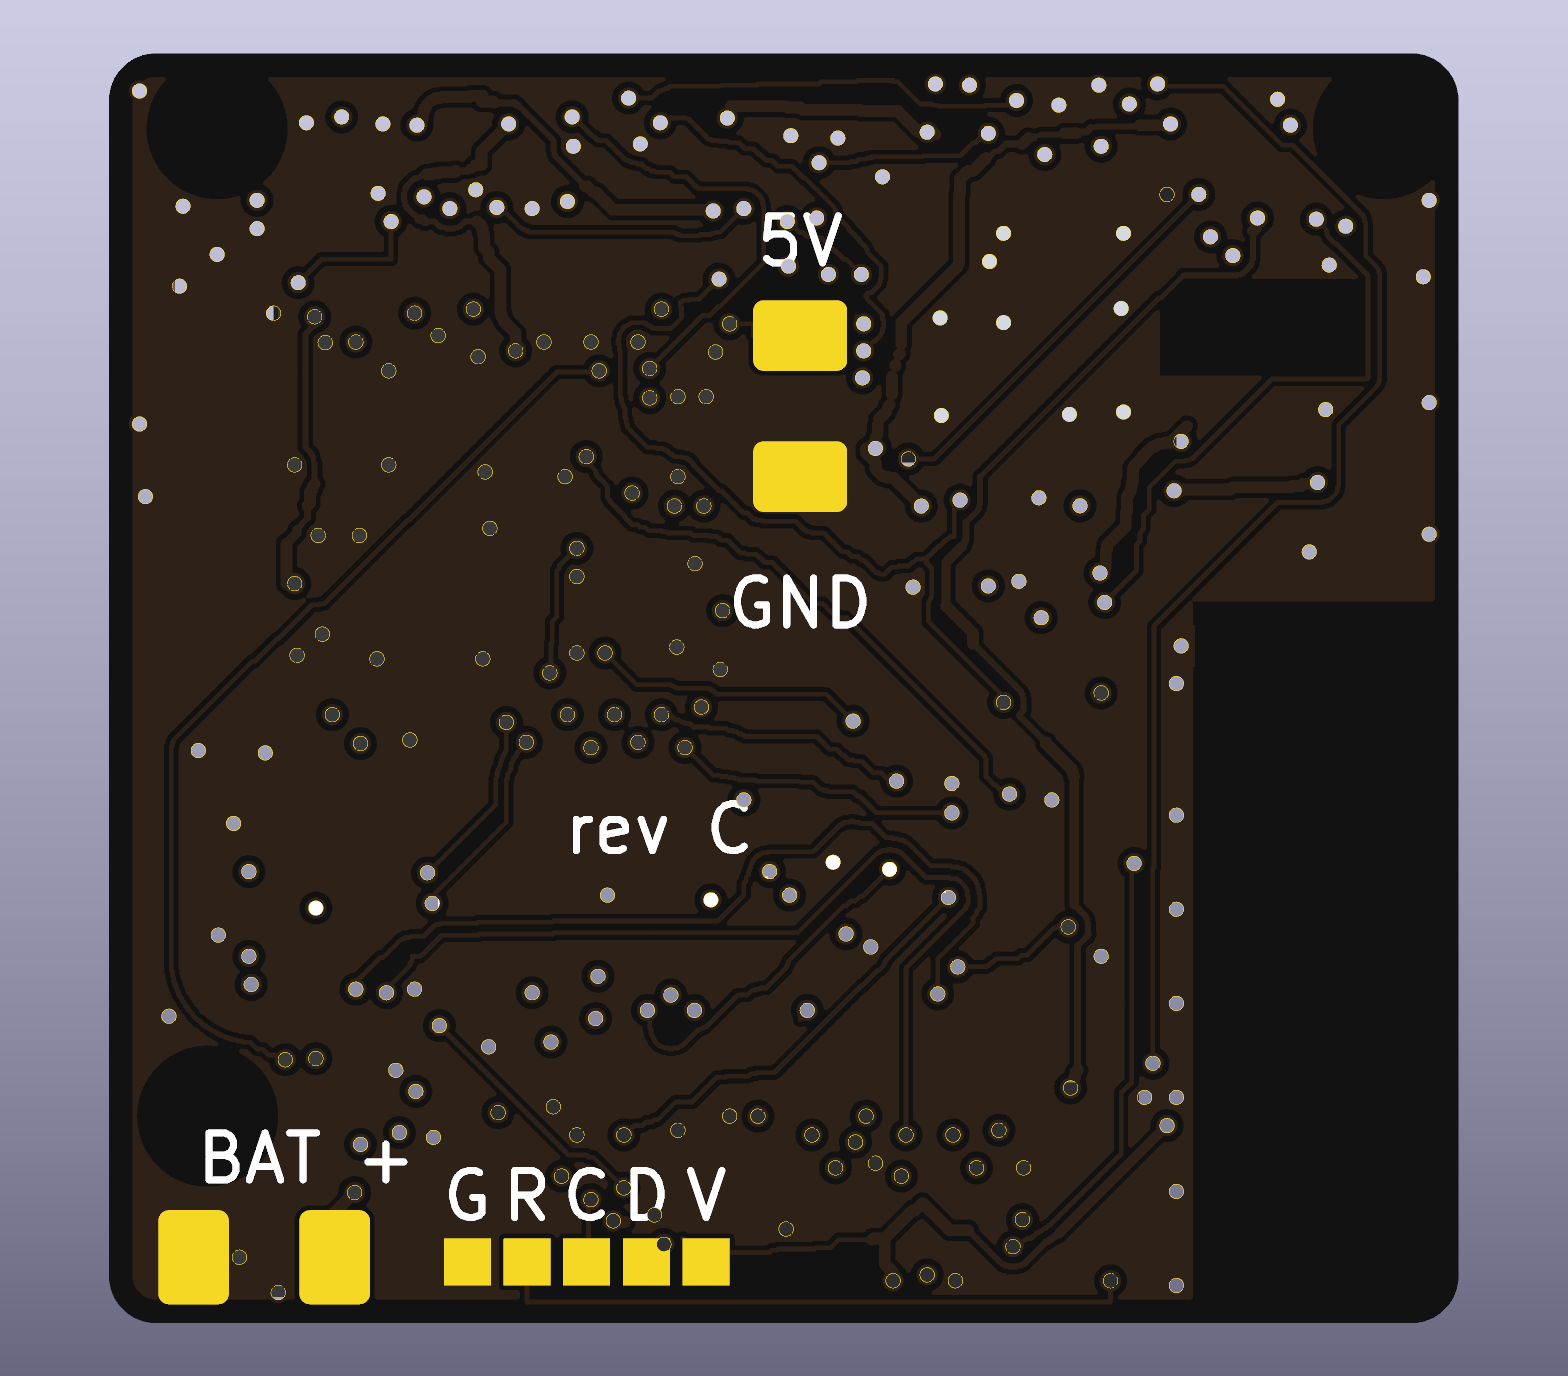
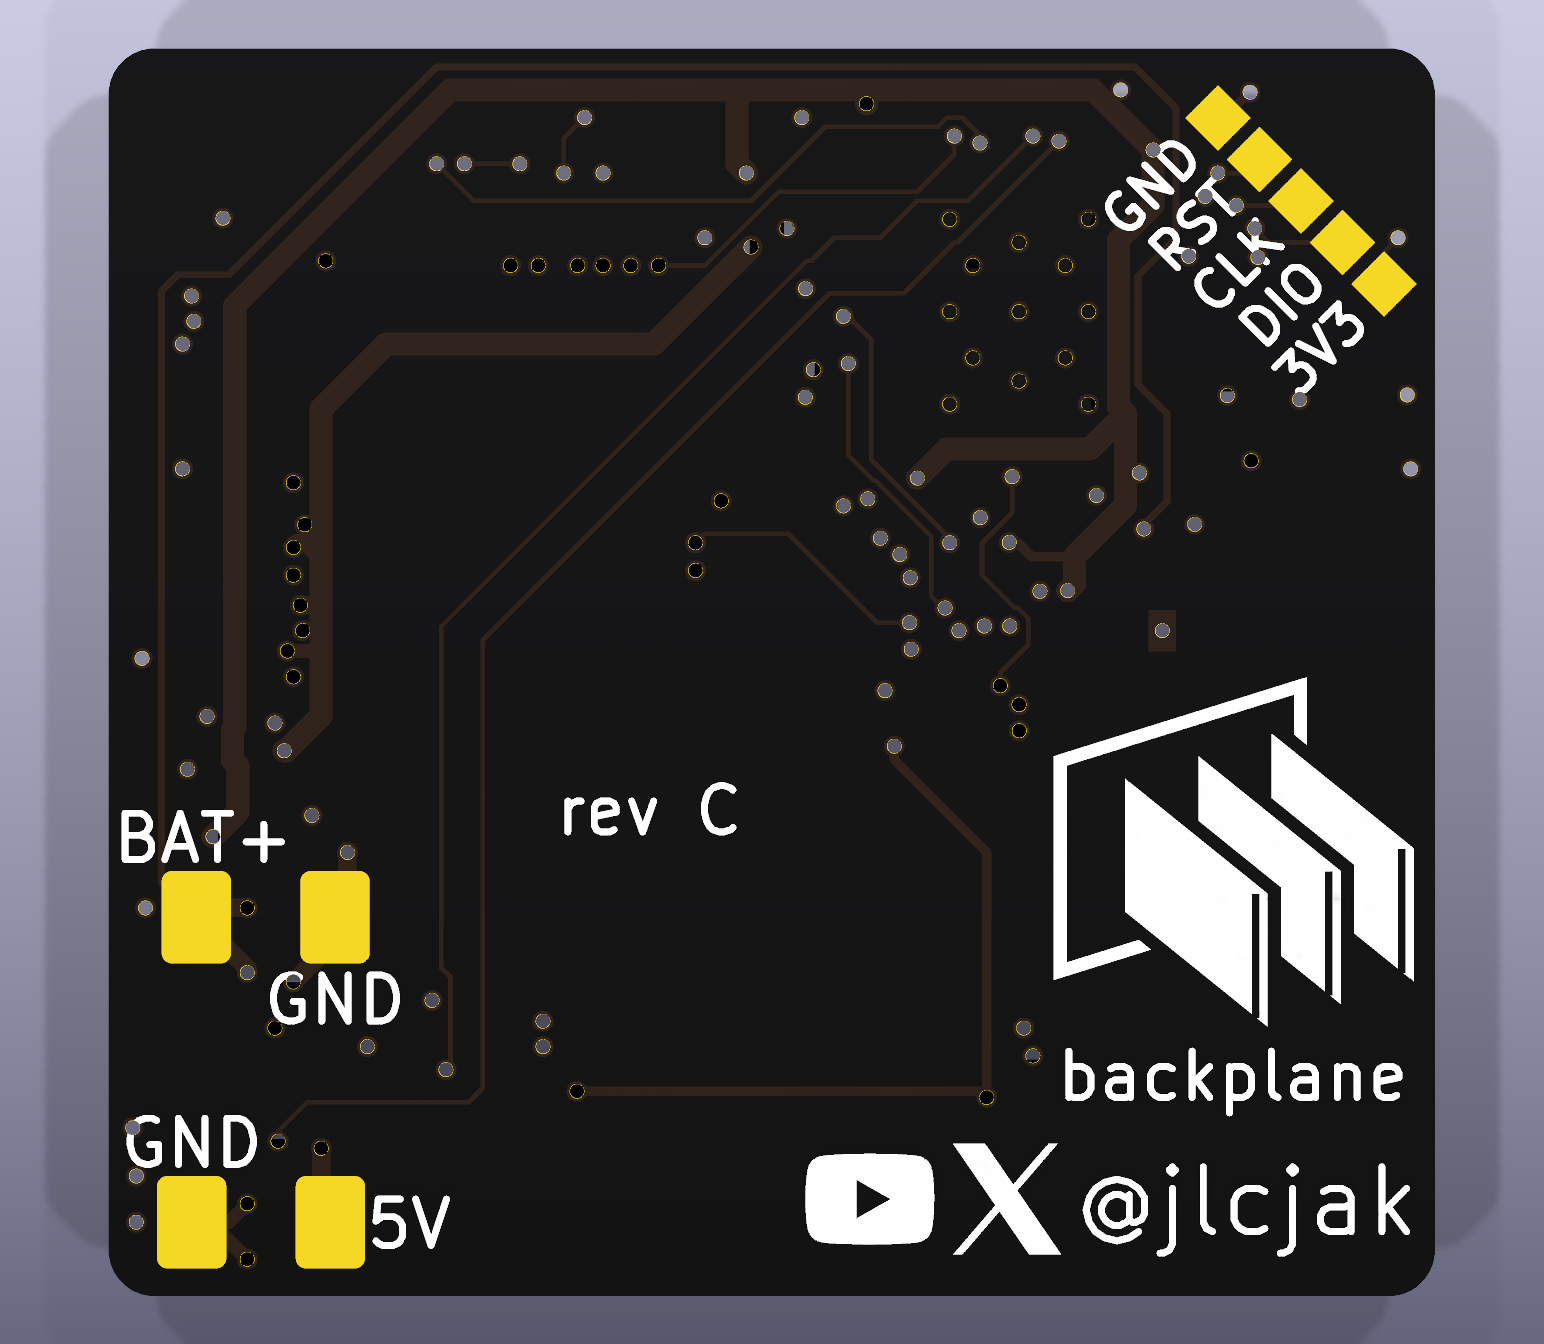
README: board renders and copper-layer figure from the new rev C layout

diff --git a/tools/copper_layers.py b/tools/copper_layers.py
@@ -15,10 +15,10 @@ PCB = os.path.join(ROOT, 'boards/neurband_c/neurband_c.kicad_pcb')
 KCLI = os.environ.get('KICAD_CLI', os.path.expanduser('~/.backplane-bend/kicad/10.99.0-bp.4/bin/kicad-cli'))
 OUT = sys.argv[1] if len(sys.argv) > 1 else os.path.join(ROOT, 'docs/media/board_layers.png')
 
-LAYERS = [('F.Cu', 'L1  F.Cu', 'parts, signal routing, GND pour'),
+LAYERS = [('F.Cu', 'L1  F.Cu', 'parts and most signal routing'),
           ('In1.Cu', 'L2  In1.Cu', 'solid GND reference plane'),
-          ('In2.Cu', 'L3  In2.Cu', '+3V3 and VBAT, signals, GND fill'),
-          ('B.Cu', 'L4  B.Cu', 'routing, GND pour, service pads')]
+          ('In2.Cu', 'L3  In2.Cu', 'second solid GND plane'),
+          ('B.Cu', 'L4  B.Cu', 'power and signal routing, SWD, battery and charge pads')]
 PANEL_W = 960                      # board raster width per panel, px
 BG = (14, 15, 17)
 SUBSTRATE = (30, 34, 38)
